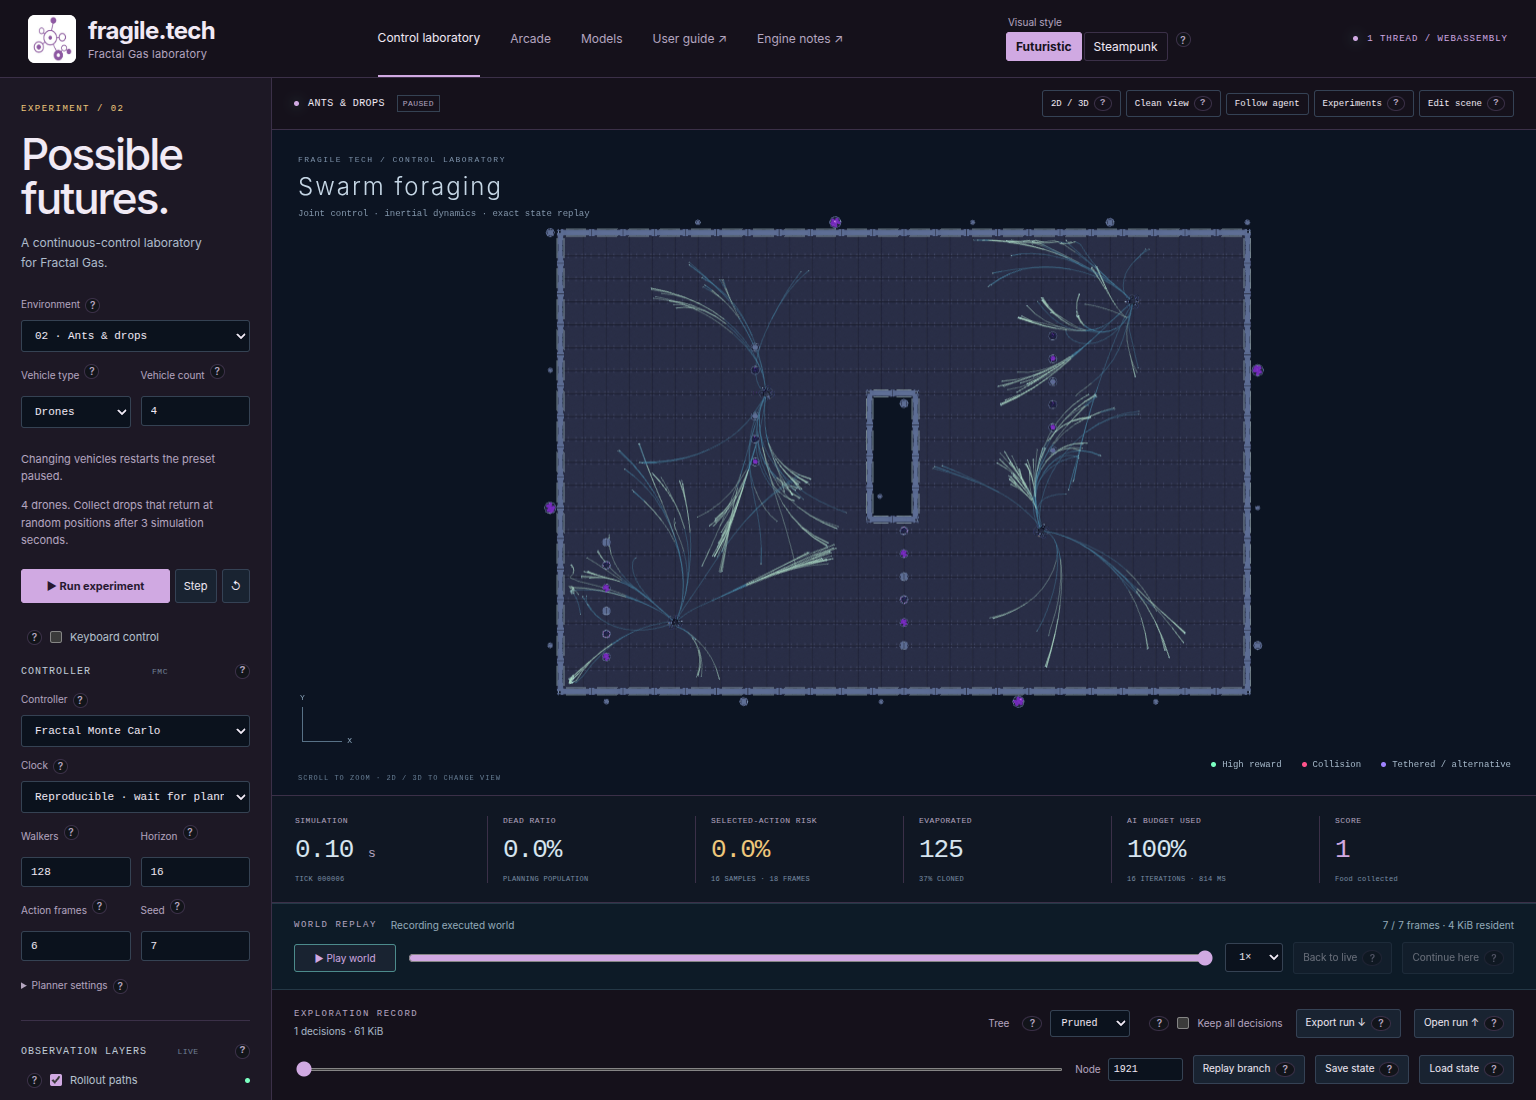
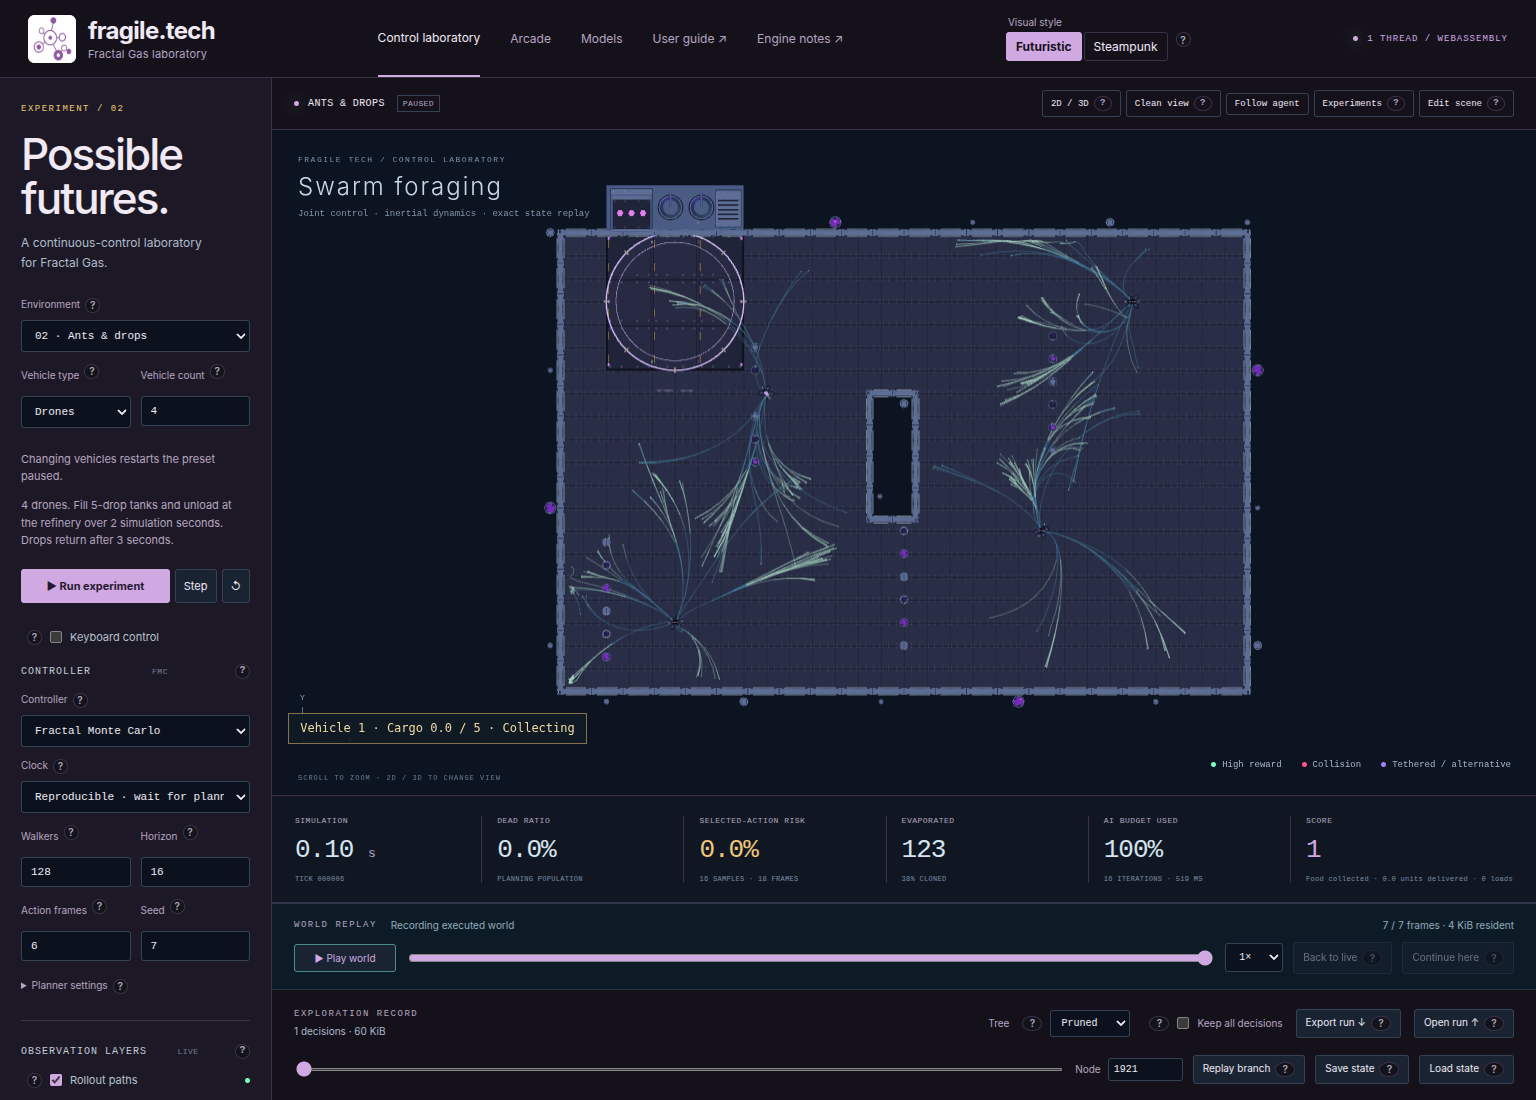
Improve docs

diff --git a/tests/docs/test_book_tools.py b/tests/docs/test_book_tools.py
@@ -3,6 +3,7 @@
 from io import StringIO
 import json
 from pathlib import Path
+import re
 import sys
 from types import SimpleNamespace
 
@@ -23,6 +24,20 @@ from assemble_docs import (
 from book_manifest import published_documents
 from collect_prf_directives import build_volume_output, extract_prf_blocks, volume_dirs
 from fragile_redirects import redirect_html, write_redirects
+
+
+def test_lab_tutorial_figures_exist():
+    """Catch missing tutorial captures before the expensive Sphinx builds."""
+    figures = []
+    for source in (DOCS / "source/project").glob("control_lab*.md"):
+        for target in re.findall(r"^:+\{figure\}\s+(\S+)", source.read_text(), re.MULTILINE):
+            if "://" in target:
+                continue
+            asset = source.parent / target
+            assert asset.is_file(), f"{source.name}: missing figure {target}"
+            assert asset.stat().st_size > 0, f"{source.name}: empty figure {target}"
+            figures.append(asset)
+    assert figures, "Lab guides should include tutorial figures"
 
 
 def test_assembled_head_initializes_scripts_once_without_changing_article_scripts():

diff --git a/docs/source/2_fractal_gas/2_fractal_set/05_yang_mills_noether.md b/docs/source/2_fractal_gas/2_fractal_set/05_yang_mills_noether.md
@@ -6604,27 +6604,144 @@ therefore applies there. Unitary transport preserves the joint spectral
 projections and the dimension of the invariant subspace.
 :::
 
-:::{prf:lemma} Causal dependence criterion for recorded interventions
+:::{prf:lemma} Recorded interventions and operational no-signaling
 :label: lem-no-signaling-fg
 
-In a finite acyclic update graph, suppose every updated variable is a
-measurable function of its parent variables and its assigned exogenous noise.
-If an intervention changes none of the variables or noises in the ancestral
-set of an observable, its value is unchanged under the common-noise coupling.
-Its law is therefore unchanged. Relativistic no-signaling follows from this
-criterion when all actual dependencies are contained in the prescribed
-Lorentzian causal cones.
+In a finite acyclic update graph, every updated variable is a measurable
+function of its parent variables and its assigned exogenous noise. If an
+intervention changes none of the variables or noises in the ancestral set
+of an observable, its value is unchanged under the common-noise coupling,
+and hence its law is unchanged. This is a sufficient no-signaling test.
+
+For the operational test, use the already defined local kinetic source of
+{prf:ref}`thm-ym-metric-force-sources`, with its test $f$ supported in the
+sender's specified region. The sender chooses its parameter $\lambda$.
+The initial law and all fitness, companion, cloning, collision, and kinetic
+rules other than the specified Gaussian source stay fixed as functions of
+the current state. In particular this intervention gives the sender no
+independent control of the global fitness array or of realized clone choices.
+Let $D_B$ be the receiver's existing recorded observable descriptor and let
+$\mathbb U$ be the unsourced native law. The existing complete source
+likelihood is
+
+$$
+L_\lambda=\exp(\lambda M_f-\lambda^2E_f/2),\qquad
+\mathbb E_{\mathbb U}L_\lambda=1.
+$$
+
+By {prf:ref}`thm-sm-path-descriptor-density`, the receiver marginal is
+unchanged for this intervention precisely when
+
+$$
+\mathbb E_{\mathbb U}[L_\lambda\mid D_B]=1
+\quad\text{almost surely}.
+$$
+
+No-signaling for this source family requires this identity for every
+admissible message value $\lambda$. It concerns the receiver's marginal
+law; equality of individual receiver realizations is sufficient but is
+not required. Thus stochastic cross-region dependence alone neither proves
+nor disproves operational signaling.
+
+For the selected law prescribed upstream, write
+$\ell=1$ or the same fixed survival indicator as in
+{prf:ref}`thm-ym-metric-force-sources`, and
+$d\mathbb P^\ell=\ell\,d\mathbb U/\mathbb U(\ell)$.
+Where the selected sourced law is defined, its receiver density relative
+to the unsourced selected receiver law is exactly
+
+$$
+\frac{\mathbb E_{\mathbb P^\ell}[L_\lambda\mid D_B]}
+     {\mathbb E_{\mathbb P^\ell}L_\lambda}.
+$$
+
+Consequently the selected-law test is equality of its numerator and
+denominator. This retains the actual survival normalization. For every
+bounded receiver observable $O(D_B)$, the existing source derivative gives
+
+$$
+\left.\frac d{d\lambda}\right|_{0}
+\mathbb E_{\mathbb P^\ell_\lambda}O
+=\operatorname{Cov}_{\mathbb P^\ell}(O,M_f).
+$$
+
+Vanishing of these first derivatives is necessary for no-signaling;
+the full likelihood identity tests finite messages.
+
+There is an exact application to a single sourced O stage. Condition on its
+complete pre-O history $\mathcal F_k$. Let $A$ be the predictable set of
+slots on which the source is nonzero. A receiver descriptor measurable in
+$\mathcal F_k$ and the O-stage Gaussian draws at slots outside $A$ has
+unchanged conditional law under this one-stage source. This includes
+receiver O-stage readouts before any later update mixes the slots. The
+statement holds with the original pre-O companion and cloning records
+retained, irrespective of their correlations.
 :::
 
 :::{prf:proof}
-Order the ancestral vertices topologically. Source values and noises agree.
-If the parent values of the next vertex agree, the common update function
-and noise give the same value there. Induction proves equality at the
-observable. All dependencies enter this induction: companion selection,
-fitness statistics, cloning, and kinetic interactions as well as genealogy.
-A Gaussian companion kernel with full support has dependencies beyond an
-arbitrary finite spatial radius, so its support cannot be discarded in
-asserting the cone hypothesis.
+For the ancestral statement, order the ancestral vertices topologically.
+Source values and noises agree. If the parents of the next vertex agree,
+the same update function and noise give the same value there. Induction
+proves equality at the observable. This uses all actual dependencies,
+including companion selection, fitness statistics, cloning, and kinetics.
+
+For a bounded measurable receiver test $b$, the already established
+likelihood and descriptor identities give
+
+$$
+\mathbb E_{\mathbb U_\lambda}b(D_B)
+=\mathbb E_{\mathbb U}[L_\lambda b(D_B)]
+=\mathbb E_{\mathbb U}
+ [\mathbb E_{\mathbb U}(L_\lambda\mid D_B)b(D_B)].
+$$
+
+Equality with the unsourced expectation for all such $b$ is precisely
+that the displayed conditional density is one. Equality for every message
+value makes the receiver distribution independent of the chosen message.
+Conversely, a failure of this density identity distinguishes the two
+receiver distributions. This is a distributional test and does not require
+the receiver to recover or control individual clone events.
+
+For survival selection, changing the native law and then applying the
+same selection gives
+
+$$
+\mathbb E_{\mathbb P^\ell_\lambda}b(D_B)
+=\frac{\mathbb E_{\mathbb P^\ell}[L_\lambda b(D_B)]}
+       {\mathbb E_{\mathbb P^\ell}L_\lambda}.
+$$
+
+Conditioning the numerator proves its receiver density. Differentiating
+at zero uses $L_0=1$ and $L'_0=M_f$; the source exponential-moment bounds
+in {prf:ref}`thm-ym-metric-force-sources` justify the derivative for bounded
+$b$ and the fixed positive-probability selection. The quotient derivative
+is the stated covariance. Unselected no-signaling and no-signaling after
+global survival selection are therefore evaluated with their respective
+normalizations.
+
+At the single O stage the source likelihood factor is
+
+$$
+L_{k,\lambda}
+=\prod_{i\in A}
+ \exp\bigl(\lambda u_{ki}\cdot\xi_{ki}
+                  -\lambda^2|u_{ki}|^2/2\bigr).
+$$
+
+The $u_{ki}$ and $A$ are fixed conditional on $\mathcal F_k$.
+Conditional independence of the Gaussian draws and their exponential
+normalization give
+
+$$
+\mathbb E[L_{k,\lambda}\mid
+ \mathcal F_k,(\xi_{kj})_{j\notin A}]=1.
+$$
+
+Apply the tower identity to any specified receiver descriptor measurable
+in these variables. This proves the claimed exact marginal invariance.
+For later receiver readouts the complete likelihood identity already
+includes the intervening fitness and cloning updates; their rules remain
+fixed, while their state arguments follow the perturbed execution.
 :::
 
 :::{prf:theorem} Positive energy and the full spectrum condition

diff --git a/CHANGELOG.md b/CHANGELOG.md
@@ -3,6 +3,8 @@
 Unreleased
 ----------
 
+* Restore missing racing-guide screenshots and fix the Pages smoke test for the five-vehicle Ants default; use smaller planning budgets and retain large-fleet coverage in native tests.
+
 * Refine vehicle silhouettes against the concept sheets with rounded pressure hulls, integrated drone armor, detailed cockpit and intake assemblies, corrected outward normals, and shared brushed-metal maps within the existing LOD budgets.
 
 * Default Ants & Drops to five vehicles and add five-drop cargo tanks to harvesters and drones, full-load bonuses, gradual rewarded refinery unloading, replayable cargo state, and concept-based steampunk/futuristic Blender refineries.
